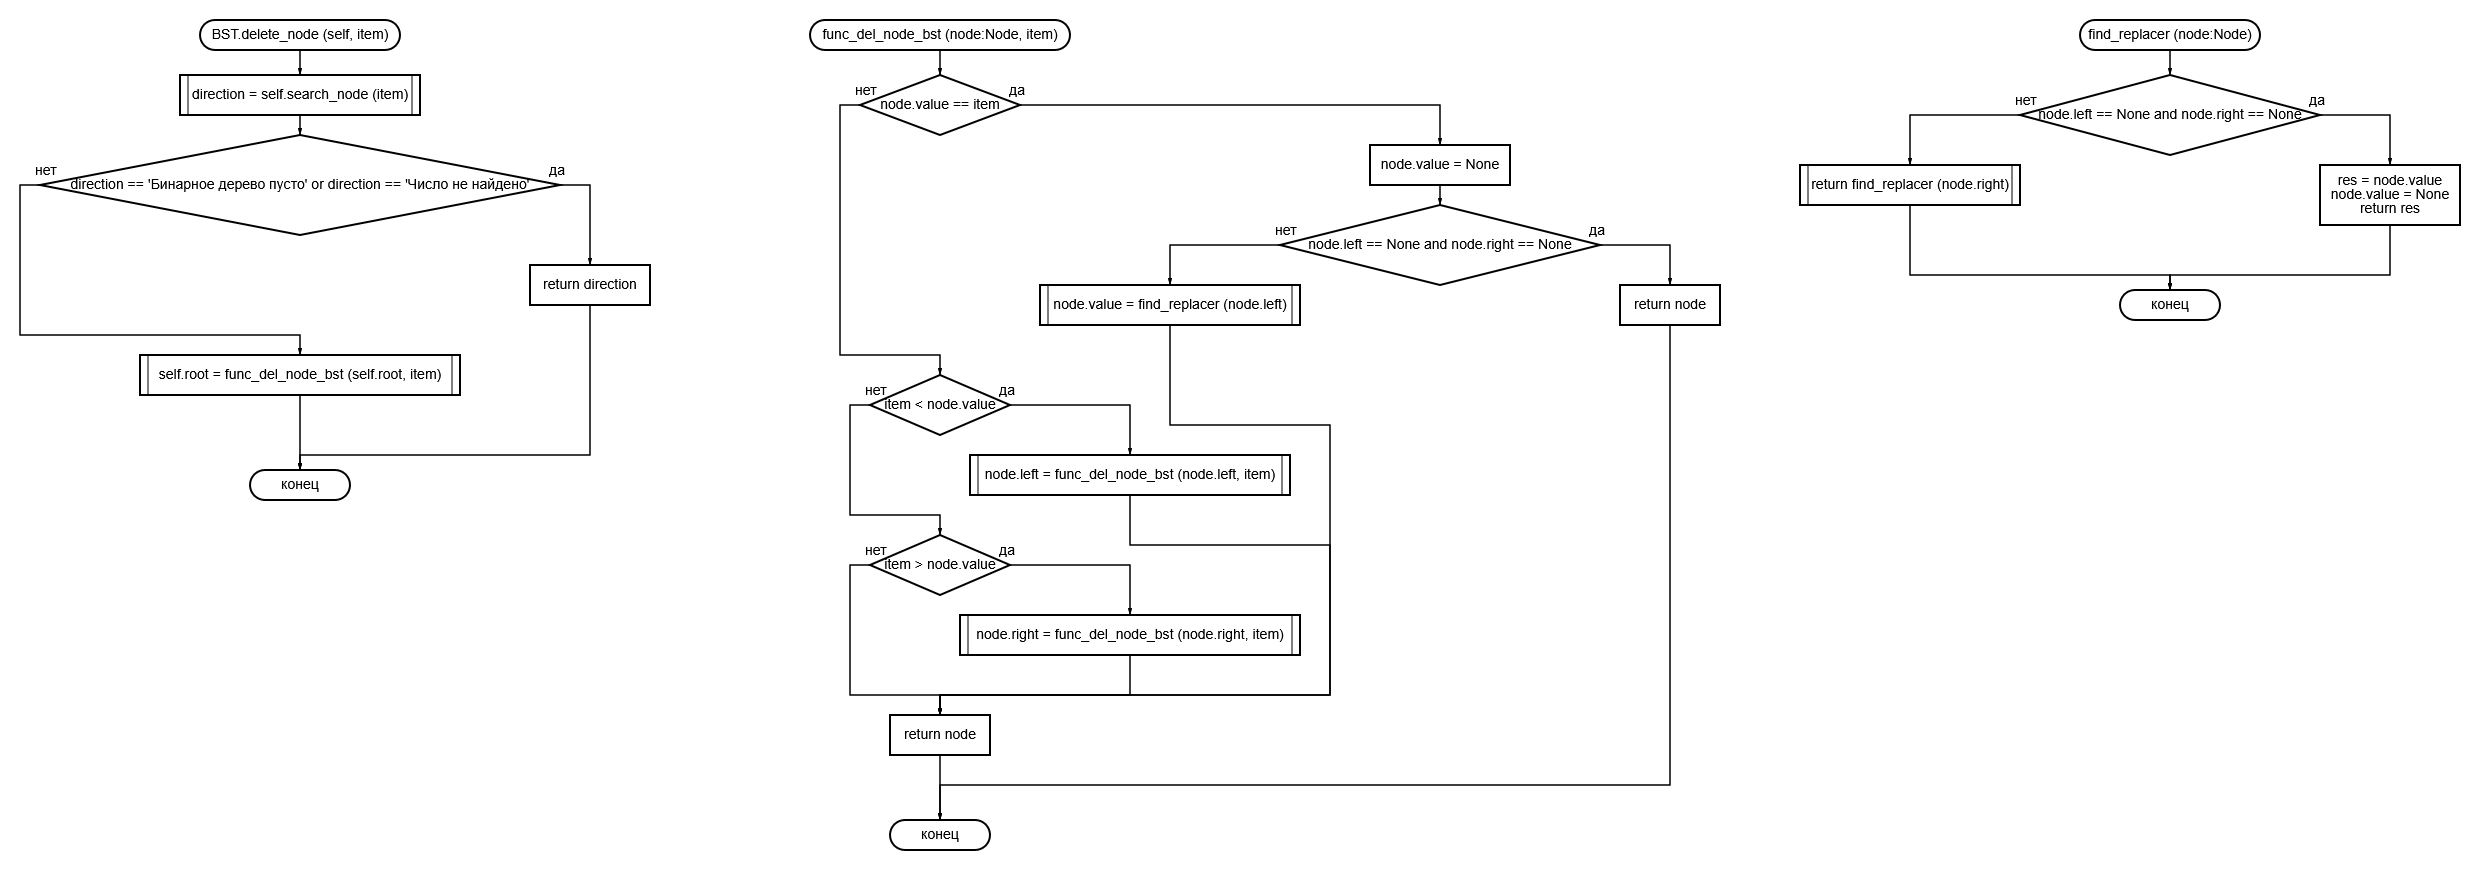
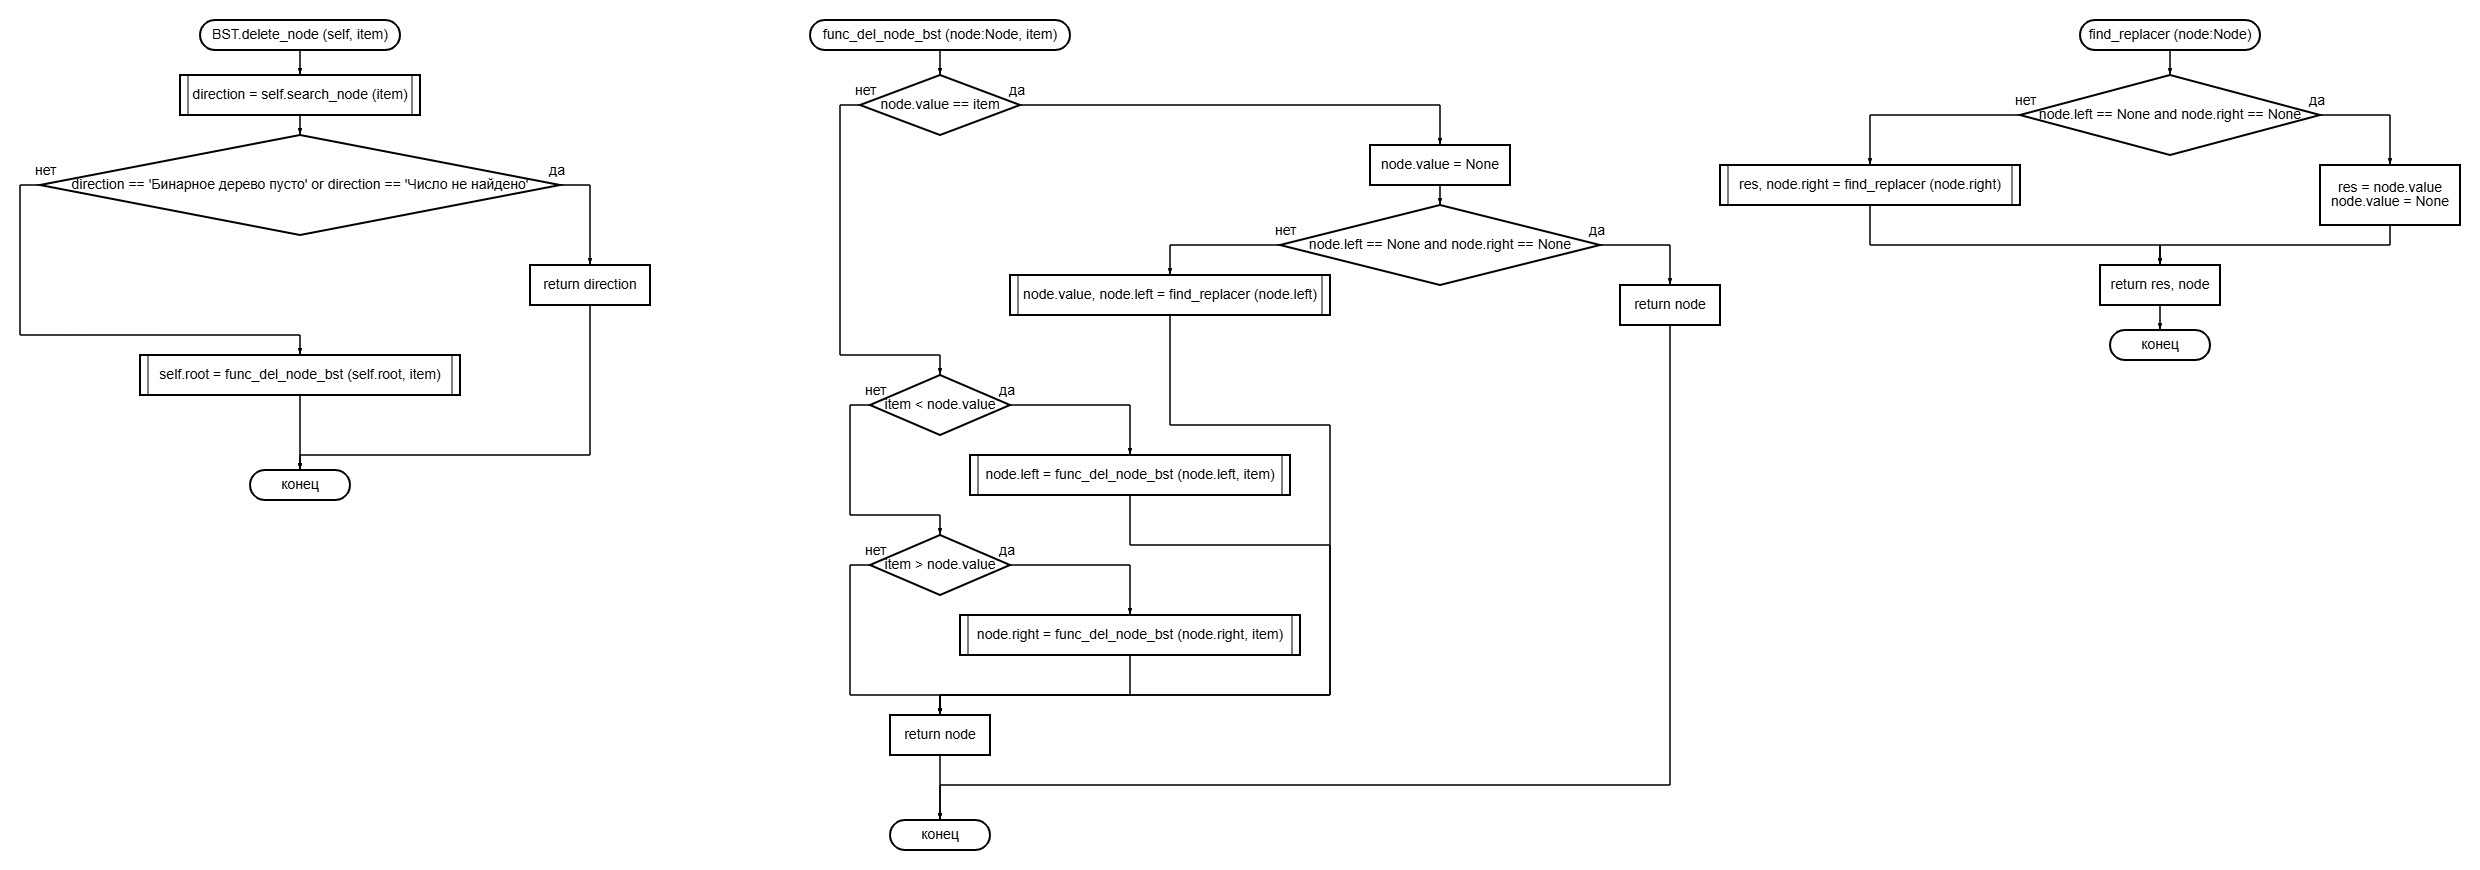
Fix for find_replacer

diff --git a/lab_02/src/tree_algo.py b/lab_02/src/tree_algo.py
@@ -44,7 +44,7 @@ def func_del_node_bst (node:Node, item):
     if node.left == None and node.right == None:
       return node
     else:
-      node.value = find_replacer (node.left)
+      node.value, node.left = find_replacer (node.left)
   elif item < node.value:
     node.left = func_del_node_bst (node.left, item)
   elif item > node.value:
@@ -55,9 +55,9 @@ def find_replacer (node:Node):
   if node.left == None and node.right == None:
     res = node.value
     node.value = None
-    return res
   else:
-    return find_replacer (node.right)
+    res, node.right = find_replacer (node.right)
+  return res, node
 
 class BST:
   def __init__ (self):